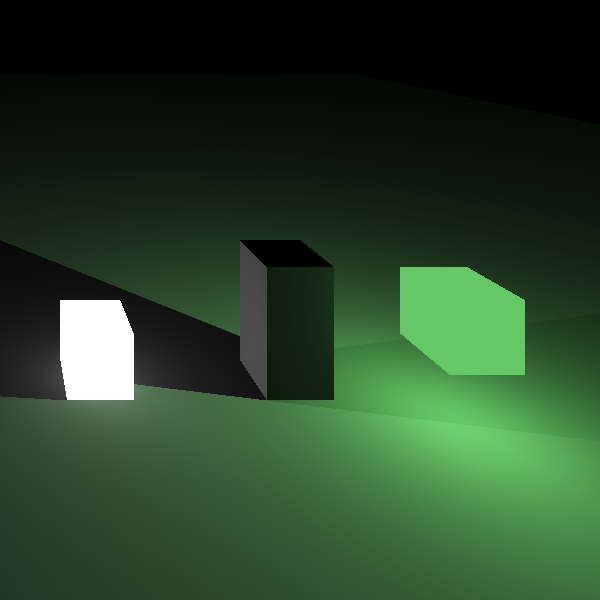
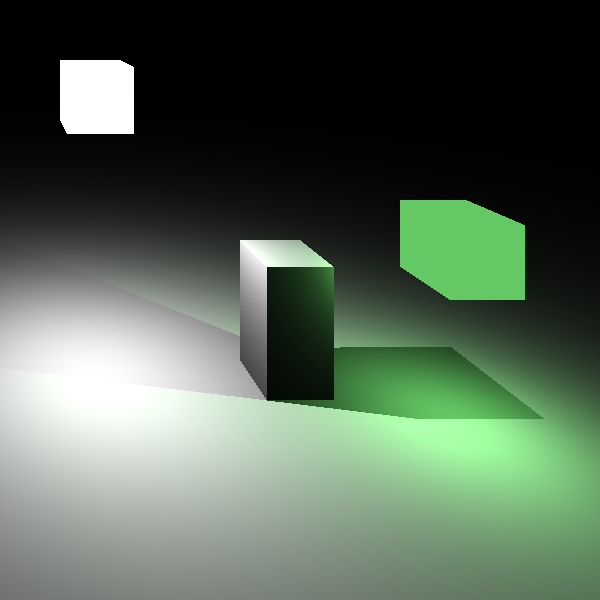
Voxel render: Nicer Lighting

diff --git a/2023/rust-voxelrender/src/main.rs b/2023/rust-voxelrender/src/main.rs
@@ -1,4 +1,4 @@
-use std::{path::Path, thread, time::Instant};
+use std::{ops::Mul, path::Path, thread, time::Instant};
 
 use image::{ImageBuffer, Rgb};
 
@@ -473,7 +473,9 @@ fn render(
                 ltree.query(&solidpos, 100., |e, lightvox| {
                     let dest = lightvox.center();
                     let pos = solidpos.add(&normal.mulf(5. * MIN_DISTANCE));
-                    let dir = dest.sub(&solidpos).normalized();
+                    let vec_to_dest = dest.sub(&solidpos);
+                    let dist_to_dest = vec_to_dest.len();
+                    let dir = vec_to_dest.normalized();
                     let posmat = pos.clone();
                     let (_, posmat) = cast_to_hit(posmat, &dir, tree);
                     let poslight = pos.clone();
@@ -481,10 +483,13 @@ fn render(
                     if let None = lvoxel  {
                         panic!("\nBlocked: {:?} Light: {:?}\n Voxel: {:?}\n Dest: {:?}\n LPos: {:?}\n BPos: {:?}\n Start: {:?}\n Normal: {:?}\n Dir: {:?}\n", posmat.sub(&pos).len(), poslight.sub(&pos).len(), voxpos, dest, poslight, posmat, pos, normal, dir);
                     }
-                    if poslight.voxel_equals(&dest) && poslight.sub(&pos).len() < posmat.sub(&solidpos).len() {
+                    let light_dist = poslight.sub(&pos).len();
+                    if poslight.voxel_equals(&dest) && light_dist < posmat.sub(&solidpos).len() {
                         // color += e.emission * e.color * albedo * (normal \cdot dir)
+                        let emission_strength = (2_f64).powf(e.emission as f64 / 16.) / (255. * (dist_to_dest - 0.5).powi(2));
+                        let mixed_color = albedo.mulf(normal.dot(&dir));
                         *color =
-                             color.add(&color_to_f(&e.color).mul(&albedo.mulf(normal.dot(&dir))).mulf(e.emission as f64 / 255.));
+                             color.add(&color_to_f(&e.color).mul(&mixed_color).mulf(emission_strength));
                     }
                 });
                 buf[px] = f_to_color(color);
@@ -507,14 +512,11 @@ fn main() {
 
     tree.insert(Point::new(5, 5, 10), RoughVoxel::new([200, 200, 200], 255));
     tree.insert(Point::new(5, 6, 10), RoughVoxel::new([200, 200, 200], 100));
-    ltree.insert(
-        Point::new(7, 5, 9),
-        EmissionVoxel::new([100, 200, 100], 255),
-    );
+    ltree.insert(Point::new(7, 4, 9), EmissionVoxel::new([100, 200, 100], 160));
 
     ltree.insert(
-        Point::new(2, 6, 10),
-        EmissionVoxel::new([255, 255, 255], 100),
+        Point::new(2, 2, 10),
+        EmissionVoxel::new([255, 255, 255], 192),
     );
 
     for x in 0..30 {
